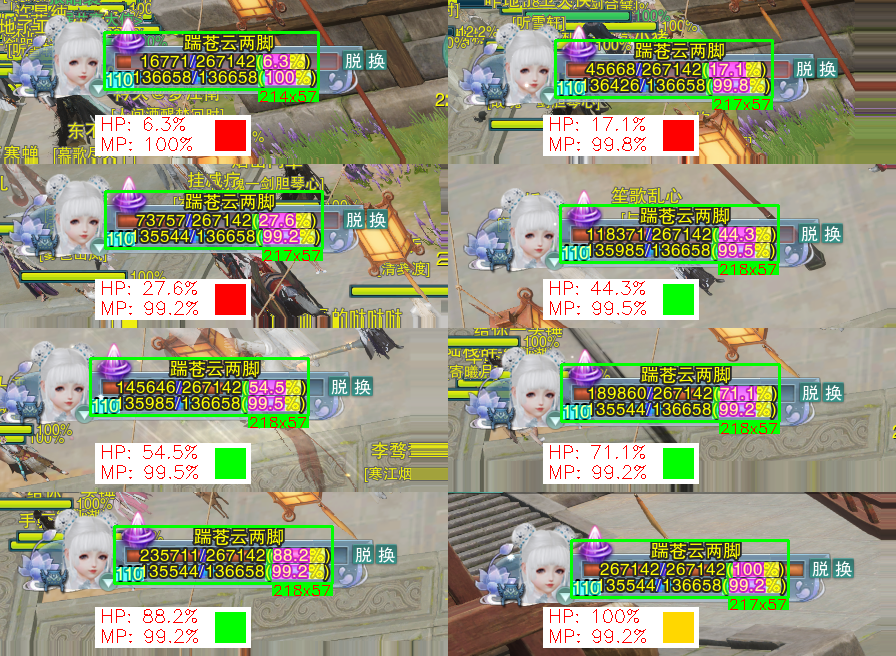
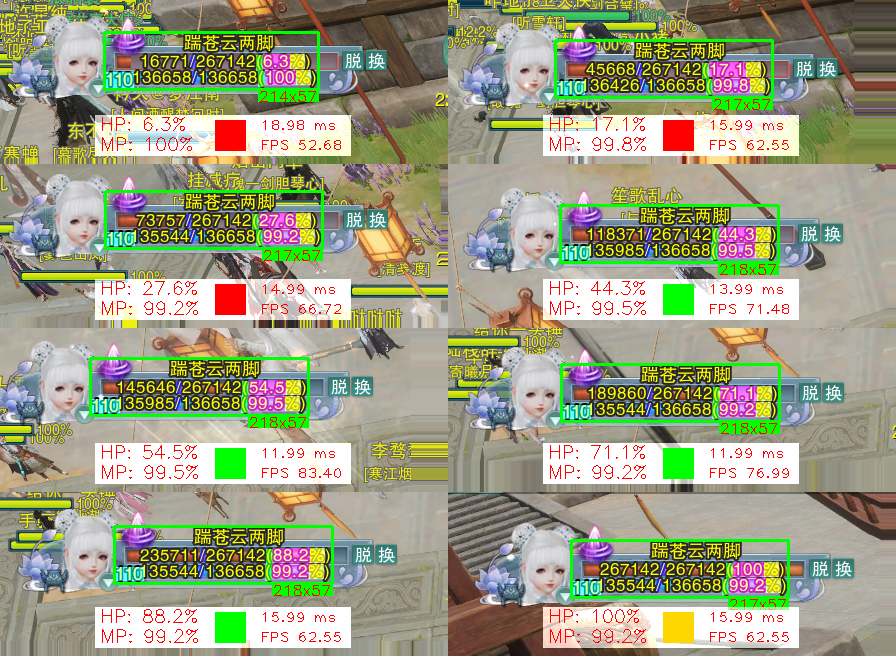
add elapsed time & FPS

diff --git a/main.py b/main.py
@@ -1,5 +1,6 @@
 import cv2
 import numpy as np
+from time import time
 
 ### constant
 WINDOW_TITLE = 'preview'
@@ -138,6 +139,8 @@ while(1):
 
     results = []
     for image in images:
+        beginTime = time()
+
         # Convert to HSV format and color threshold
         hsv = cv2.cvtColor(image, cv2.COLOR_BGR2HSV)
         mask = cv2.inRange(hsv, lower, upper)
@@ -272,10 +275,11 @@ while(1):
         detectNumber = 'HP: {0[0]}\nMP: {0[1]}'.format(paired)
         print(detectNumber)
         print('=' * 10)
-        result = cv2.addWeighted(result, alpha / 10.0, templateMask, beta / 10.0, gamma / 10.0)
 
         ### final result
-        result = cv2.rectangle(result, (95, 115), (250, 155), COLOR.WHITE, cv2.FILLED)
+        templateMask = cv2.rectangle(templateMask, (95, 115), (350, 155), COLOR.WHITE, cv2.FILLED)
+
+        result = cv2.addWeighted(result, alpha / 10.0, templateMask, beta / 10.0, gamma / 10.0)
 
         result = cv2.putText(result, detectNumber.splitlines()[0], (100, 130), cv2.FONT_HERSHEY_SIMPLEX, 0.6, COLOR.RED)
         result = cv2.putText(result, detectNumber.splitlines()[1], (100, 150), cv2.FONT_HERSHEY_SIMPLEX, 0.6, COLOR.RED)
@@ -288,8 +292,11 @@ while(1):
         elif (hp == 100):
             ledMainColor = COLOR.GOLD
         result = cv2.rectangle(result, (215, 120), (245, 150), ledMainColor, cv2.FILLED)
+        result = cv2.putText(result, '{:.2f} ms'.format((time() - beginTime) * 1000), (260, 130), cv2.FONT_HERSHEY_PLAIN, 1, COLOR.RED)
+        result = cv2.putText(result, 'FPS {:.2f}'.format(1 / (time() - beginTime)), (260, 150), cv2.FONT_HERSHEY_PLAIN, 1, COLOR.RED)
 
         results.append(result)
+        print('used time: {}', (time() - beginTime) * 1000)
 
     if (len(results) == 8):
         cv2.imshow(WINDOW_TITLE, cv2.vconcat([
